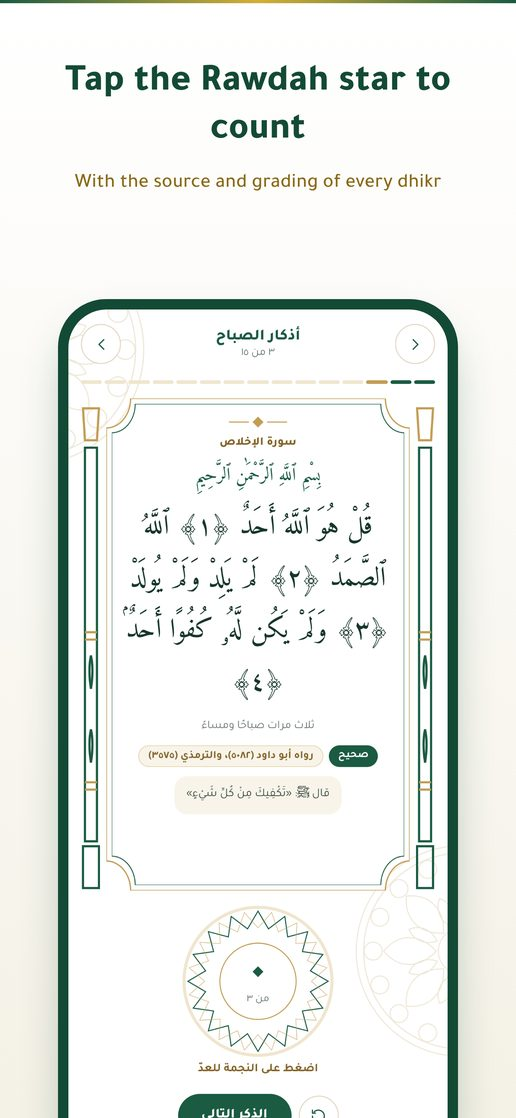
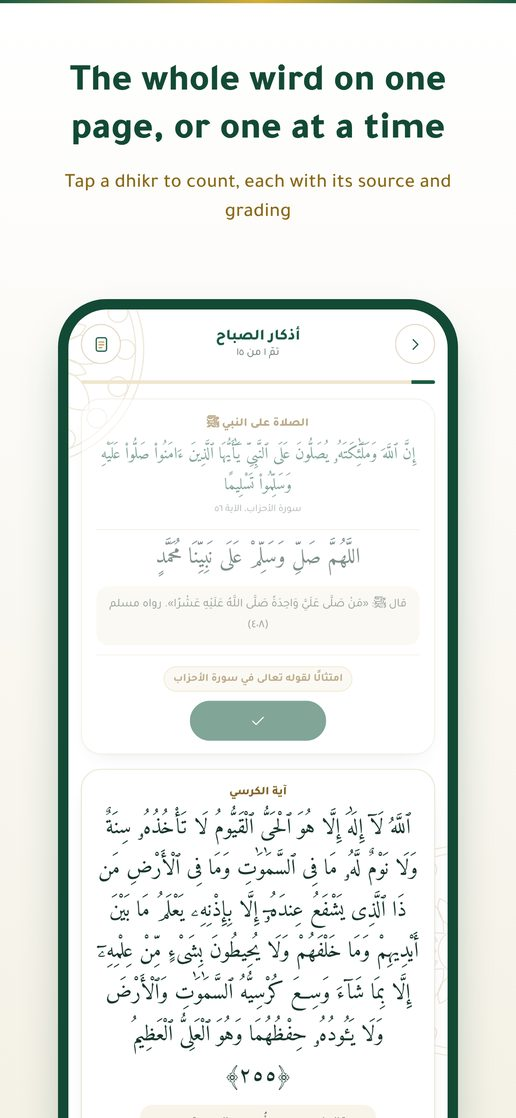
Adhkar views copy and screenshots
Claude-Session: https://claude.ai/code/session_01VuSMiQEH5292QdzofQ9sC9

diff --git a/index.html b/index.html
@@ -48,7 +48,7 @@
 <section id="features"><div class="wrap">
   <h2 class="sec"><span class="ar">ما الذي يميّز ياسلام؟</span><span class="en">What makes YaSalam different?</span></h2>
   <p class="sec"><span class="ar">بالعربي أولاً، ولكل مسلم حول العالم.</span><span class="en">Arabic first, for Muslims everywhere.</span></p>
-  <div class="grid"><div class="f"><div class="e"><svg viewBox="0 0 24 24" fill="none" stroke="currentColor" stroke-width="1.7" stroke-linecap="round" stroke-linejoin="round"><path d="M12 2l2.4 4.2 4.7-1.1-1.1 4.7L22 12l-4 2.4 1.1 4.7-4.7-1.1L12 22l-2.4-4-4.7 1.1 1.1-4.7L2 12l4-2.4L4.9 4.9l4.7 1.1z"/></svg></div><h3><span class="ar">يبدأ ويُختم بالصلاة على النبي ﷺ</span><span class="en">Opens and closes with salawat ﷺ</span></h3><p><span class="ar">كل ورد يُفتتح بالصلاة على النبي ﷺ ويُختم بالصلاة الإبراهيمية.</span><span class="en">Every wird begins with salawat upon the Prophet ﷺ and ends with the Ibrahimi salawat.</span></p></div><div class="f"><div class="e"><svg viewBox="0 0 24 24" fill="none" stroke="currentColor" stroke-width="1.7" stroke-linecap="round" stroke-linejoin="round"><path d="M4 19V8a8 8 0 0 1 16 0v11"/><path d="M8 19v-7a4 4 0 0 1 8 0v7"/><path d="M2 19h20"/></svg></div><h3><span class="ar">صيغ الصلاة على النبي ﷺ</span><span class="en">Authentic forms of salawat</span></h3><p><span class="ar">الصيغ الثابتة في الصحيحين وغيرهما، مع المصدر وعدّاد لكل صيغة.</span><span class="en">The forms from Bukhari, Muslim and other collections, each with its source and counter.</span></p></div><div class="f"><div class="e"><svg viewBox="0 0 24 24" fill="none" stroke="currentColor" stroke-width="1.7" stroke-linecap="round" stroke-linejoin="round"><circle cx="12" cy="12" r="9"/><path d="M12 7v5l3 2"/></svg></div><h3><span class="ar">أذكار اليوم كاملة</span><span class="en">Every daily adhkar</span></h3><p><span class="ar">الصباح والمساء وبعد الصلاة والنوم والاستيقاظ، بعدّاد بلمسة على نجمة الروضة.</span><span class="en">Morning, evening, after prayer, sleep and waking, counted with a tap on the Rawdah star.</span></p></div><div class="f"><div class="e"><svg viewBox="0 0 24 24" fill="none" stroke="currentColor" stroke-width="1.7" stroke-linecap="round" stroke-linejoin="round"><path d="M12 3v2M12 19v2M5 12H3M21 12h-2M6.3 6.3 4.9 4.9M19.1 19.1l-1.4-1.4M6.3 17.7l-1.4 1.4M19.1 4.9l-1.4 1.4"/><circle cx="12" cy="12" r="4"/></svg></div><h3><span class="ar">مواقيت بدون إنترنت</span><span class="en">Offline prayer times</span></h3><p><span class="ar">أم القرى ورابطة العالم الإسلامي والهيئة المصرية وISNA وديانت وغيرها، مع تنبيه الأذان.</span><span class="en">Umm al-Qura, MWL, Egypt, ISNA, Diyanet and more, with adhan alerts for the prayers you choose.</span></p></div><div class="f"><div class="e"><svg viewBox="0 0 24 24" fill="none" stroke="currentColor" stroke-width="1.7" stroke-linecap="round" stroke-linejoin="round"><circle cx="12" cy="12" r="9"/><path d="m15.5 8.5-2 5-5 2 2-5z"/></svg></div><h3><span class="ar">القبلة</span><span class="en">Qibla</span></h3><p><span class="ar">اتجاه القبلة بالبوصلة، والمسافة إلى الكعبة المشرفة.</span><span class="en">The Qibla direction with a live compass, and the distance to the Kaaba.</span></p></div><div class="f"><div class="e"><svg viewBox="0 0 24 24" fill="none" stroke="currentColor" stroke-width="1.7" stroke-linecap="round" stroke-linejoin="round"><rect x="3" y="3" width="8" height="8" rx="2"/><rect x="13" y="3" width="8" height="8" rx="2"/><rect x="3" y="13" width="18" height="8" rx="2"/></svg></div><h3><span class="ar">ودجت وسبحة</span><span class="en">Widget and tasbih</span></h3><p><span class="ar">الصلاة القادمة مع العدّ التنازلي على الشاشة الرئيسية، وسبحة تعدّ بلمسة دون فتح التطبيق.</span><span class="en">The next prayer with a countdown on your home screen, and a tasbih that counts without opening the app.</span></p></div></div>
+  <div class="grid"><div class="f"><div class="e"><svg viewBox="0 0 24 24" fill="none" stroke="currentColor" stroke-width="1.7" stroke-linecap="round" stroke-linejoin="round"><path d="M12 2l2.4 4.2 4.7-1.1-1.1 4.7L22 12l-4 2.4 1.1 4.7-4.7-1.1L12 22l-2.4-4-4.7 1.1 1.1-4.7L2 12l4-2.4L4.9 4.9l4.7 1.1z"/></svg></div><h3><span class="ar">يبدأ ويُختم بالصلاة على النبي ﷺ</span><span class="en">Opens and closes with salawat ﷺ</span></h3><p><span class="ar">كل ورد يُفتتح بالصلاة على النبي ﷺ ويُختم بالصلاة الإبراهيمية.</span><span class="en">Every wird begins with salawat upon the Prophet ﷺ and ends with the Ibrahimi salawat.</span></p></div><div class="f"><div class="e"><svg viewBox="0 0 24 24" fill="none" stroke="currentColor" stroke-width="1.7" stroke-linecap="round" stroke-linejoin="round"><path d="M4 19V8a8 8 0 0 1 16 0v11"/><path d="M8 19v-7a4 4 0 0 1 8 0v7"/><path d="M2 19h20"/></svg></div><h3><span class="ar">صيغ الصلاة على النبي ﷺ</span><span class="en">Authentic forms of salawat</span></h3><p><span class="ar">الصيغ الثابتة في الصحيحين وغيرهما، مع المصدر وعدّاد لكل صيغة.</span><span class="en">The forms from Bukhari, Muslim and other collections, each with its source and counter.</span></p></div><div class="f"><div class="e"><svg viewBox="0 0 24 24" fill="none" stroke="currentColor" stroke-width="1.7" stroke-linecap="round" stroke-linejoin="round"><circle cx="12" cy="12" r="9"/><path d="M12 7v5l3 2"/></svg></div><h3><span class="ar">أذكار اليوم كاملة</span><span class="en">Every daily adhkar</span></h3><p><span class="ar">الصباح والمساء وبعد الصلاة والنوم والاستيقاظ: ذكرًا بذكر بملء الشاشة أو الوِرد كاملًا في صفحة، وتعدّ بلمسة على الذكر.</span><span class="en">Morning, evening, after prayer, sleep and waking: one dhikr at a time, full screen, or the whole wird on one page. Tap the dhikr to count.</span></p></div><div class="f"><div class="e"><svg viewBox="0 0 24 24" fill="none" stroke="currentColor" stroke-width="1.7" stroke-linecap="round" stroke-linejoin="round"><path d="M12 3v2M12 19v2M5 12H3M21 12h-2M6.3 6.3 4.9 4.9M19.1 19.1l-1.4-1.4M6.3 17.7l-1.4 1.4M19.1 4.9l-1.4 1.4"/><circle cx="12" cy="12" r="4"/></svg></div><h3><span class="ar">مواقيت بدون إنترنت</span><span class="en">Offline prayer times</span></h3><p><span class="ar">أم القرى ورابطة العالم الإسلامي والهيئة المصرية وISNA وديانت وغيرها، مع تنبيه الأذان.</span><span class="en">Umm al-Qura, MWL, Egypt, ISNA, Diyanet and more, with adhan alerts for the prayers you choose.</span></p></div><div class="f"><div class="e"><svg viewBox="0 0 24 24" fill="none" stroke="currentColor" stroke-width="1.7" stroke-linecap="round" stroke-linejoin="round"><circle cx="12" cy="12" r="9"/><path d="m15.5 8.5-2 5-5 2 2-5z"/></svg></div><h3><span class="ar">القبلة</span><span class="en">Qibla</span></h3><p><span class="ar">اتجاه القبلة بالبوصلة، والمسافة إلى الكعبة المشرفة.</span><span class="en">The Qibla direction with a live compass, and the distance to the Kaaba.</span></p></div><div class="f"><div class="e"><svg viewBox="0 0 24 24" fill="none" stroke="currentColor" stroke-width="1.7" stroke-linecap="round" stroke-linejoin="round"><rect x="3" y="3" width="8" height="8" rx="2"/><rect x="13" y="3" width="8" height="8" rx="2"/><rect x="3" y="13" width="18" height="8" rx="2"/></svg></div><h3><span class="ar">ودجت وسبحة</span><span class="en">Widget and tasbih</span></h3><p><span class="ar">الصلاة القادمة مع العدّ التنازلي على الشاشة الرئيسية، وسبحة تعدّ بلمسة دون فتح التطبيق.</span><span class="en">The next prayer with a countdown on your home screen, and a tasbih that counts without opening the app.</span></p></div></div>
   <div class="free">
     <h3><span class="ar">مجاني بالكامل، بلا إعلانات وبلا مقاطعة</span><span class="en">Completely free, no ads, no interruptions</span></h3>
     <p><span class="ar">لا حساب ولا خوادم: موقعك وأورادك تبقى على جهازك. ومن أحب أن يدعم التطبيق يجد صفحة «ادعم ياسلام» داخل الإعدادات فقط.</span><span class="en">No account and no servers: your location and progress stay on your phone. If you'd like to support YaSalam, there's a "Support YaSalam" page inside Settings only.</span></p>
